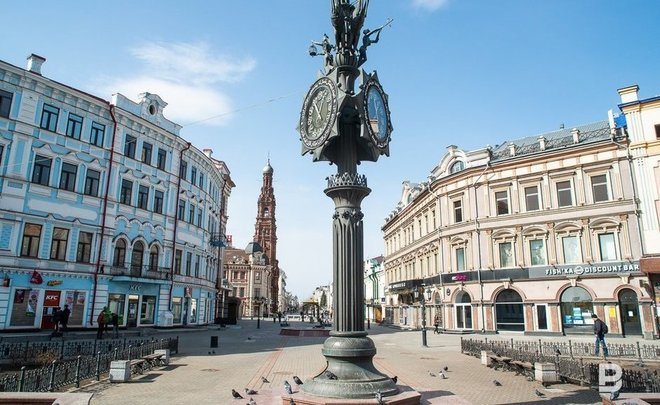
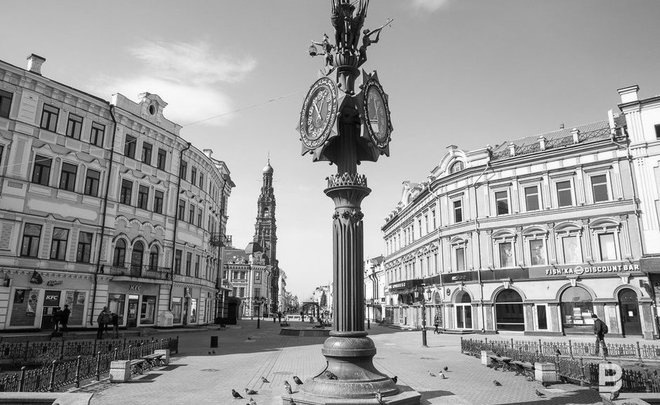
Дискретное преобразование

diff --git a/venv/Discrete_Cosine_Transform.py b/venv/Discrete_Cosine_Transform.py
@@ -1,0 +1,41 @@
+import math
+
+import cv2
+import numpy as np
+import matplotlib.pyplot as plt
+
+
+def Discrete_Transform(image):
+    img = image
+    height, width = image.shape[:2]
+    u = 8
+    v = u
+
+    for i in range(height - 1):
+        for j in range(width - 1):
+            if image[i][j] == 0:
+                cu = math.sqrt(1 / height)
+                cv = cu
+                img[i][j] = cu * cv * CosX(u, image[i][j], height) * CosX(v, image[i][j], height)
+            else:
+                cu = math.sqrt(2 / height)
+                cv = cu
+                CosX(u, image[i][j], height)
+                img[i][j] = cu * cv * CosX(u, image[i][j], height) * CosX(v, image[i][j], height)
+
+    plt.subplot()
+    plt.imshow(img)
+    plt.title('Сжатие')
+
+    plt.show()
+    #cv2.imshow(img)
+
+
+def CosX(u, x, n):
+    result = math.cos(((2 * x + 1) * u * math.pi) / 2 * n)
+    return result
+
+
+def CosY(v, y, n):
+    result = math.cos(((2 * y + 1) * v * math.pi) / 2 * n)
+    return result

diff --git a/venv/main.py b/venv/main.py
@@ -3,14 +3,16 @@ import numpy as np
 #from Power_transformation import superimpose_mask_on_image
 #from Roberts_2 import roberts_func
 #from Binary import *
-from Aff_6 import smeshenie
-from lab3 import  *
+#from Aff_6 import smeshenie
+#from lab3 import *
+#from Dct_Transform import *
+from Discrete_Cosine_Transform import *
 
 #Гамма
 gamma = 1.8
 
 #Чтения изображения
-image = cv2.imread("kzn_2.jpg")
+image = cv2.imread("2.jpg", 0)
 
 #cv2.imshow("Image_1", image)
 #Преобразование в полутоновое
@@ -33,7 +35,8 @@ image = cv2.imread("kzn_2.jpg")
 #Lab_3("kzn_2.jpg")
 
 #4_лабораторная работа
-
+#DCT(image)
+Discrete_Transform(image)
 
 #5 бинаризация изображения
 #binaryImage = binary_image_transformations(image)
@@ -42,7 +45,7 @@ image = cv2.imread("kzn_2.jpg")
 
 #6_Лабораторная работа
 #Смещение изображения
-smeshenie(image)
+#smeshenie(image)
 
 cv2.waitKey(0)
 cv2.destroyAllWindows()

diff --git a/venv/Dct_Transform.py b/venv/Dct_Transform.py
@@ -1,0 +1,36 @@
+import cv2
+import numpy as np
+import matplotlib.pyplot as plt
+
+
+def DCT(image):
+    img1 = image.astype('float')
+    img_dct = cv2.dct(img1)
+
+    u, v = 8, 8
+    widht = image.shape(1)
+    height = image.shape(2)
+
+    img_dct_log = np.log(abs(img_dct))
+
+    recor_temp = img_dct[0:40, 0:40]
+    recor_temp2 = np.zeros(image.shape)
+    recor_temp2[0:40, 0:40] = recor_temp
+
+    # Восстановление сжатого изображения
+    result = cv2.idct(recor_temp2)
+
+    plt.subplot(221)
+    # plt.imshow(cv2.cvtColor(image, cv2.COLOR_BGR2RGB))
+    plt.imshow(image)
+    plt.title('Исходное')
+
+    plt.subplot(222)
+    plt.imshow(img_dct_log)
+    plt.title('dct')
+
+    plt.subplot(223)
+    plt.imshow(result)
+    plt.title('Сжатие')
+
+    plt.show()

diff --git a/venv/test.py b/venv/test.py
@@ -1,0 +1,31 @@
+import cv2
+import numpy as np
+import matplotlib.pyplot as plt
+
+
+
+img1 = cv2.imread('2.jpg')
+# or use cv2.CV_LOAD_IMAGE_GRAYSCALE
+img1 = cv2.cvtColor(img1, cv2.COLOR_BGR2GRAY)
+cv2.imshow('input', img1)
+w,h = img1.shape
+# make a 32bit float for doing the dct within
+img2 = np.zeros((w,h), dtype=np.float32)
+
+img2 = img2+img1[:w, :h]
+dct1 = cv2.dct(img2)
+
+
+recor_temp = dct1[0:100,0:100]
+recor_temp2 = np.zeros(img1.shape)
+recor_temp2[0:100,0:100] = recor_temp
+img_recor1 = cv2.idct(recor_temp2)
+
+ #Compressed picture recovery
+
+key = -1
+while(key < 0):
+    cv2.imshow("DCT", dct1)
+    cv2.imshow("result", img_recor1)
+    key = cv2.waitKey(1)
+cv2.destroyAllWindows()
